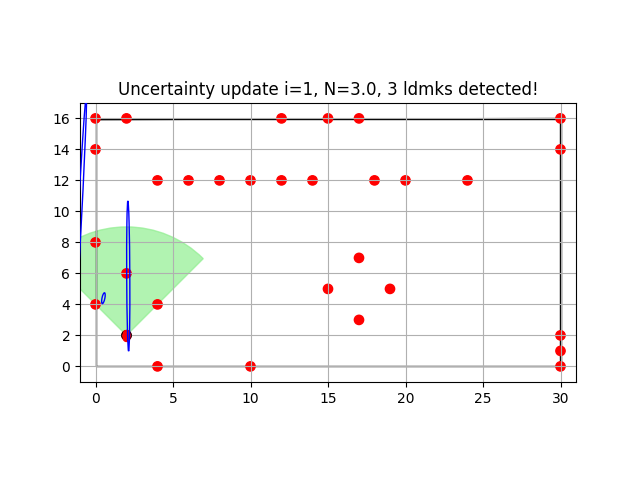
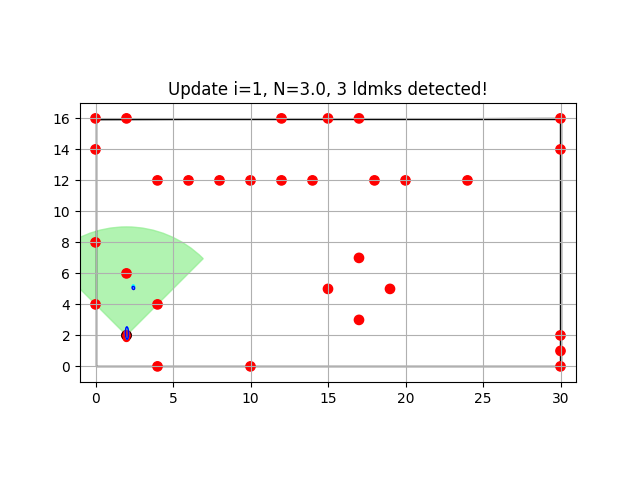
FastSLAM1 and SLAMparticle with some bugs related to dubious features delete. FastSLAM_2 start.

Changed region(s): [[0.1875, 0.1562, 0.8438, 0.2188], [0.1562, 0.4062, 0.2188, 0.7188], [0.125, 0.2188, 0.1562, 0.4688]]

diff --git a/FastSLAM_1.py b/FastSLAM_1.py
@@ -22,6 +22,7 @@ def FastSLAM_1(Y, u_t, z_t, p0, alphas_motion, camera_range, camera_fov,
         # line 4
         particle.x = sample_model_velocity(x_tp=particle.x, u_t=u_t, alphas=alphas_motion, deltat=deltat)
 
+        dubious_feat = set()
         for z_idx, z in enumerate(z_t.T):                       # iter over readings
             s = z[2]
             z = z[:2][:, None]                                  # ignore s and make vertical again
@@ -72,7 +73,6 @@ def FastSLAM_1(Y, u_t, z_t, p0, alphas_motion, camera_range, camera_fov,
             Ntp = particle.N
             Nt = max(Ntp, c+1)
 
-            delete_list = []
             for j in range(Nt):
                 if j == c and j == Ntp:                                      # new feature
                     # line 17
@@ -86,7 +86,7 @@ def FastSLAM_1(Y, u_t, z_t, p0, alphas_motion, camera_range, camera_fov,
 
                     particle.insert_new_feature(mu, Sigma)
 
-                elif (j == c) and j <= (Ntp - 1):                           # observed feature
+                elif j == c and j < Ntp:                                    # update observed feature
                     mu, Sigma, _ = particle.access_feature(j)
                     zhat = particle.compute_expected_measurement(j)
 
@@ -109,24 +109,23 @@ def FastSLAM_1(Y, u_t, z_t, p0, alphas_motion, camera_range, camera_fov,
                     particle.update_map(j, mu, Sigma)
 
                 else:                                                           # all other features
-                    # does not necessary to update the feature
                     # check if into the perception range
                     # line 28
                     dist = np.linalg.norm(particle.mu_features[j] - particle.x[:2])
                     rel_bearing = relative_bearing(observer_angle=particle.x[2],
                                                    target_angle=arctan2(particle.mu_features[j][0] - particle.x[0],
                                                                         particle.mu_features[j][1] - particle.x[1]))
+                    if dist < camera_range and abs(rel_bearing) < camera_fov/2:
+                        dubious_feat.add(j)
 
-                    if dist < camera_range and abs(rel_bearing) < camera_fov:
-                        # line 31
-                        particle.counter_features[j] -= 1
+        dubious_feat = list(dubious_feat)
+        dubious_feat.sort()
+        dubious_feat.reverse()
+        for j in dubious_feat:
+            particle.counter_features[j] -= 1
 
-                        # lines 32, and 33
-                        if particle.counter_features[j] < 0:
-                            delete_list.append(j)
-
-            delete_list.reverse()
-            for j in delete_list:
+            # lines 32, and 33
+            if particle.counter_features[j] < 0:
                 particle.delete_feature(j)
 
     # particles likelihoods considering all readings

diff --git a/homework_6.py b/homework_6.py
@@ -52,7 +52,7 @@ ut_seq = np.array(
 n_particles = 10
 percep_sigmas = (0.3, 0.1, 0.1)
 motion_alphas = np.array((5, 1, 0.01, 0.01, 0.01, 0.01))*1e-3
-p0 = 5e-1
+p0 = 1e-1
 
 # good values for visualization:
 # percep_sigmas = (0.3, 0.01, 0.1)
@@ -89,7 +89,7 @@ if __name__ == "__main__":
                 ldmks_string = 'No Ldmks detected...'
 
             N_mean = sum([p.N for p in Y])/len(Y)
-            title = f"Uncertainty update i={i}, N={N_mean}, {ldmks_string}"
+            title = f"Update i={i}, N={N_mean}, {ldmks_string}"
         else: raise 'algo_name err'
 
         plot_FastSLAM_scene(xt=xti, Y=Y, w=w, area_map=test_area_map, camera_fov=camera_fov,
@@ -97,6 +97,5 @@ if __name__ == "__main__":
                             figname=images_dir + 'iter_{0:03d}'.format(i))
 
         print(f'Fim da iteração {i} de {len(ut_seq.T)-1}')
-
 
     make_movie(images_dir, f'./movies/{algo_name}_movie.gif')

diff --git a/plot_utils.py b/plot_utils.py
@@ -231,6 +231,11 @@ def plot_FastSLAM_scene(xt, Y, w, area_map, camera_fov, camera_range, title, sav
         #     mu, Sigma, _ = particle.access_feature(i)
         #     pats += get_mahalanobis_level_pat(mean=(mu[0], mu[1]), S=Sigma, colors=['blue'], zorder=3)
 
+    worst_particle = Y[np.argmin(w)]
+    for i in range(worst_particle.N):
+        mu, Sigma, _ = worst_particle.access_feature(i)
+        pats += get_mahalanobis_level_pat(mean=(mu[0], mu[1]), S=Sigma, colors=['cyan'], zorder=3)
+
     best_particle = Y[np.argmax(w)]
     for i in range(best_particle.N):
         mu, Sigma, _ = best_particle.access_feature(i)

diff --git a/utils.py b/utils.py
@@ -168,6 +168,7 @@ class SLAMParticle:
     def update_map(self, j, mu, Sigma):
         self.mu_features[j] = mu
         self.Sigmas_features[j] = Sigma
+        self.counter_features[j] += 1
 
     def access_feature(self, j):
         mu = self.mu_features[j]
